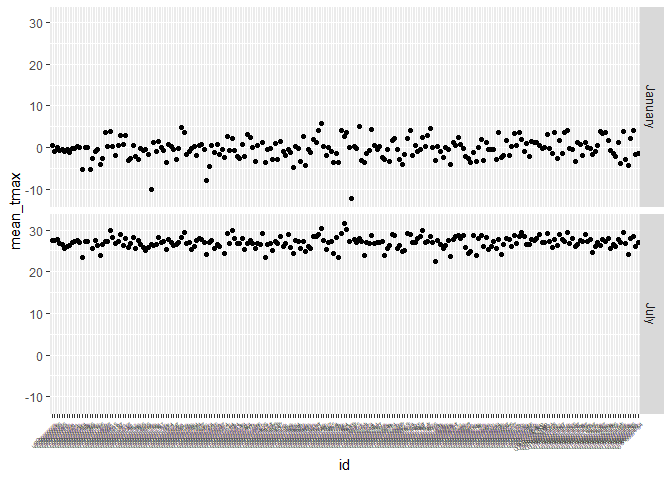
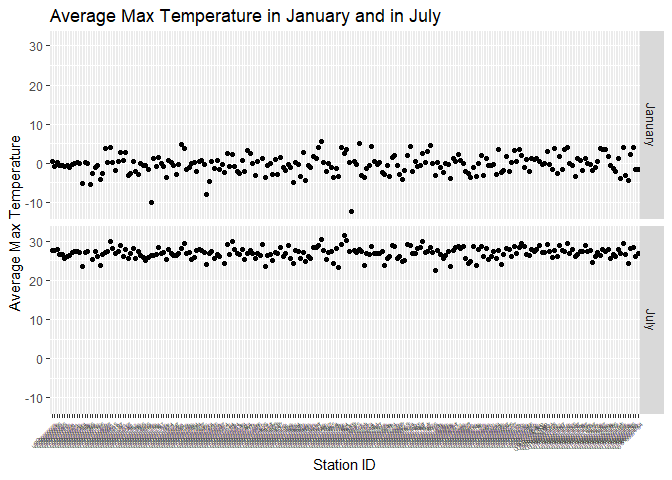
create two plots for problem 3 and use patchwork combining them into one.

diff --git a/p8105_hw3_st3117.md b/p8105_hw3_st3117.md
@@ -324,14 +324,92 @@ ny_noaa %>%
   ggplot(aes(x = id, y = mean_tmax)) +
     geom_point() +
     facet_grid(month ~ .) +
-    theme(axis.text.x = element_text(size = 4, hjust = 1, angle = 45))
+    theme(axis.text.x = element_text(size = 4, hjust = 1, angle = 45)) +
+    labs(
+      title = "Average Max Temperature in January and in July",
+      x = "Station ID",
+      y = "Average Max Temperature"
+      )
 ```
 
 <img src="p8105_hw3_st3117_files/figure-markdown_github/Problem 3_3-1.png" width="800px" height="800px" />
 
-     +
-    labs(
-      title = "Number of Items Ordered in Aisles",
-      x = "Aisle Name",
-      y = "Number of Items Ordered"
-      )
+``` r
+ny_noaa %>% 
+  filter(month == "January" | month == "July") %>% 
+  group_by(id, month) %>% 
+  summarize(mean_tmax = mean(tmax_c, na.rm = TRUE)) %>% 
+  filter(!is.na(mean_tmax)) %>% 
+  ggplot(aes(x = month, y = mean_tmax)) +
+    geom_boxplot()
+```
+
+<img src="p8105_hw3_st3117_files/figure-markdown_github/Problem 3_3-2.png" width="800px" height="800px" />
+
+``` r
+is_outlier = function(x) {
+  return(x < quantile(x, 0.25) - 1.5 * IQR(x) | x > quantile(x, 0.75) + 1.5 * IQR(x))
+}
+
+ny_noaa %>% 
+  filter(month == "January" | month == "July") %>% 
+  group_by(id, month) %>% 
+  summarize(mean_tmax = mean(tmax_c, na.rm = TRUE)) %>% 
+  filter(!is.na(mean_tmax)) %>% 
+  group_by(month) %>% 
+  mutate(outlier = ifelse(is_outlier(mean_tmax), mean_tmax, as.numeric(NA))) %>% 
+  filter(!is.na(outlier)) %>% 
+  arrange(month)
+```
+
+    ## # A tibble: 10 x 4
+    ## # Groups:   month [2]
+    ##    id          month   mean_tmax outlier
+    ##    <chr>       <chr>       <dbl>   <dbl>
+    ##  1 USC00301723 January     -9.98   -9.98
+    ##  2 USC00302720 January     -8.02   -8.02
+    ##  3 USC00305380 January      5.67    5.67
+    ##  4 USC00305925 January    -12.2   -12.2 
+    ##  5 USC00300424 July        23.5    23.5 
+    ##  6 USC00304102 July        23.5    23.5 
+    ##  7 USC00305769 July        23.3    23.3 
+    ##  8 USC00305804 July        31.5    31.5 
+    ##  9 USC00307799 July        22.4    22.4 
+    ## 10 USC00308248 July        23.5    23.5
+
+Problem 3\_4 Make a two-panel plot showing (i) tmax vs tmin for the full dataset (note that a scatterplot may not be the best option); (ii) make a plot showing the distribution of snowfall values greater than 0 and less than 100 separately by year.
+--------------------------------------------------------------------------------------------------------------------------------------------------------------------------------------------------------------------------------------------------------
+
+``` r
+tmax_tmin_p = ggplot(ny_noaa, aes(x = tmax_c, y = tmin_c)) + 
+                geom_hex() +
+                labs(
+                  title = "tmax vs tmin",
+                  x = "tmax",
+                  y = "tmin"
+                  )
+```
+
+Problem 3\_5 and
+----------------
+
+``` r
+snow_dist_p = ny_noaa %>% 
+                filter(snow_mm > 0 & snow_mm < 100) %>% 
+                ggplot(aes(x = year, y = snow_mm)) +
+                  geom_violin() +
+                  theme(axis.text.x = element_text(size = 8, hjust = 1, angle = 45)) +
+                  labs(
+                    title = "Distribution of Snowfall",
+                    x = "Year",
+                    y = "Snowfall in mm"
+                    )
+```
+
+``` r
+tmax_tmin_p / snow_dist_p
+```
+
+    ## Warning: Removed 1136276 rows containing non-finite values (stat_binhex).
+
+![](p8105_hw3_st3117_files/figure-markdown_github/unnamed-chunk-1-1.png)
